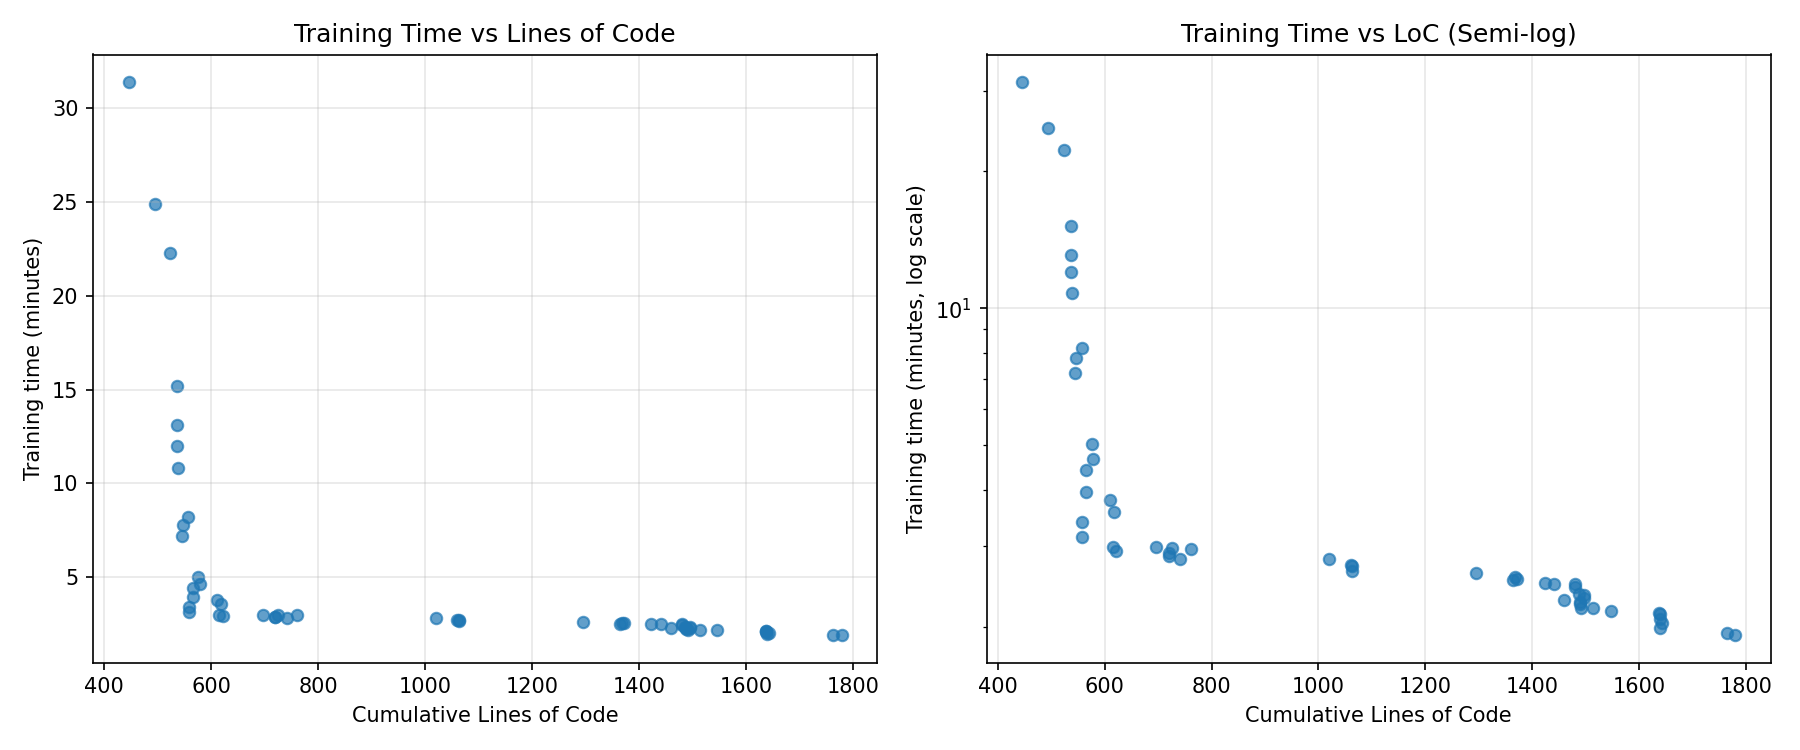
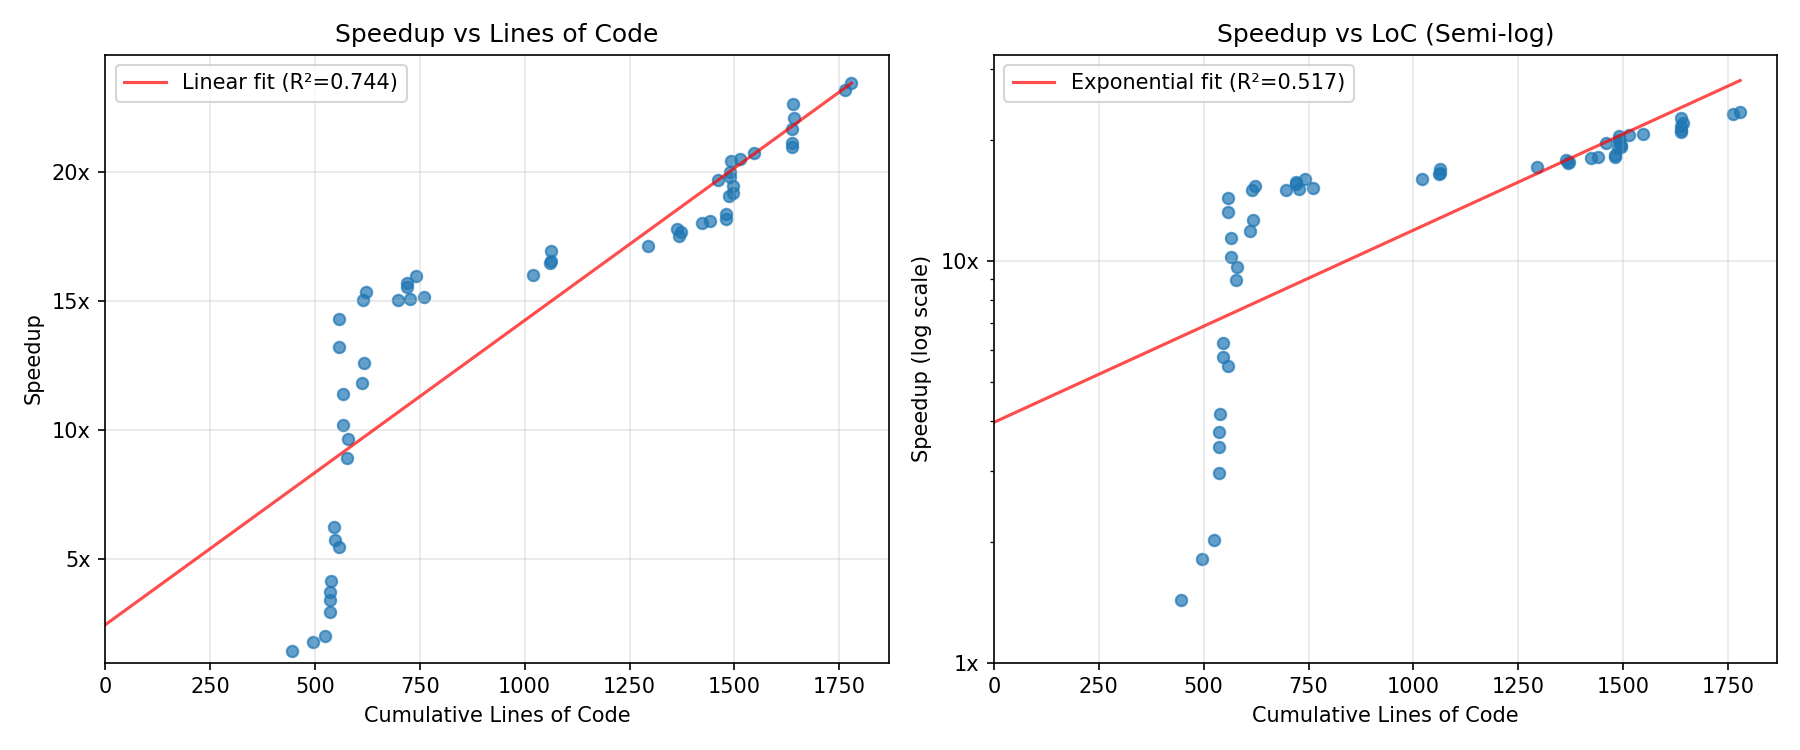
plot changes

diff --git a/src/plots.py b/src/plots.py
@@ -138,31 +138,60 @@ def plot_speed_over_time(improvements: list[dict], output_dir: Path, fit_results
 
 
 def plot_speed_vs_loc(improvements: list[dict], output_dir: Path):
-    """Plot speed vs lines of code."""
+    """Plot speedup vs lines of code."""
     # Filter records with valid data
     valid = [i for i in improvements if i["cumulative_loc"] is not None and i["record_time_minutes"] is not None]
 
     loc = np.array([i["cumulative_loc"] for i in valid])
     times = np.array([i["record_time_minutes"] for i in valid])
 
+    # Calculate speedup relative to 45min baseline
+    baseline_time = 45.0
+    speedup = baseline_time / times
+
     fig, axes = plt.subplots(1, 2, figsize=(12, 5))
 
     # Linear scale
     ax1 = axes[0]
-    ax1.scatter(loc, times, alpha=0.7, s=30)
+    ax1.scatter(loc, speedup, alpha=0.7, s=30)
     ax1.set_xlabel("Cumulative Lines of Code")
-    ax1.set_ylabel("Training time (minutes)")
-    ax1.set_title("Training Time vs Lines of Code")
+    ax1.set_ylabel("Speedup")
+    ax1.set_title("Speedup vs Lines of Code")
     ax1.grid(True, alpha=0.3)
 
-    # Semi-log scale
+    # Linear fit
+    slope1, intercept1, r_value1, _, _ = stats.linregress(loc, speedup)
+    loc_fit = np.linspace(0, loc.max(), 100)
+    ax1.plot(loc_fit, slope1 * loc_fit + intercept1, 'r-', alpha=0.7,
+             label=f'Linear fit (R²={r_value1**2:.3f})')
+    ax1.legend()
+
+    # Format y-axis with 'x' suffix
+    ax1.yaxis.set_major_formatter(plt.FuncFormatter(lambda x, _: f'{x:.0f}x'))
+    ax1.set_ylim(bottom=1)
+    ax1.set_xlim(left=0)
+
+    # Semi-log on Y (log speedup)
     ax2 = axes[1]
-    ax2.scatter(loc, times, alpha=0.7, s=30)
+    ax2.scatter(loc, speedup, alpha=0.7, s=30)
     ax2.set_yscale("log")
     ax2.set_xlabel("Cumulative Lines of Code")
-    ax2.set_ylabel("Training time (minutes, log scale)")
-    ax2.set_title("Training Time vs LoC (Semi-log)")
+    ax2.set_ylabel("Speedup (log scale)")
+    ax2.set_title("Speedup vs LoC (Semi-log)")
     ax2.grid(True, alpha=0.3)
+
+    # Log-linear fit (linear in log space)
+    log_speedup = np.log10(speedup)
+    slope2, intercept2, r_value2, _, _ = stats.linregress(loc, log_speedup)
+    log_fit = slope2 * loc_fit + intercept2
+    ax2.plot(loc_fit, 10**log_fit, 'r-', alpha=0.7,
+             label=f'Exponential fit (R²={r_value2**2:.3f})')
+    ax2.legend()
+
+    # Format y-axis with 'x' suffix
+    ax2.yaxis.set_major_formatter(plt.FuncFormatter(lambda x, _: f'{x:.0f}x'))
+    ax2.set_ylim(bottom=1)
+    ax2.set_xlim(left=0)
 
     plt.tight_layout()
     plt.savefig(output_dir / "speed_vs_loc.png", dpi=150)
@@ -172,7 +201,7 @@ def plot_speed_vs_loc(improvements: list[dict], output_dir: Path):
 
 
 def plot_speed_vs_stars(improvements: list[dict], output_dir: Path):
-    """Plot speed vs stars (if available)."""
+    """Plot speedup vs stars (if available)."""
     # Filter records with valid data
     valid = [i for i in improvements if i["stars"] is not None and i["record_time_minutes"] is not None]
 
@@ -183,24 +212,51 @@ def plot_speed_vs_stars(improvements: list[dict], output_dir: Path):
     stars = np.array([i["stars"] for i in valid])
     times = np.array([i["record_time_minutes"] for i in valid])
 
+    # Calculate speedup relative to 45min baseline
+    baseline_time = 45.0
+    speedup = baseline_time / times
+
     fig, axes = plt.subplots(1, 2, figsize=(12, 5))
 
     # Linear scale
     ax1 = axes[0]
-    ax1.scatter(stars, times, alpha=0.7, s=30)
+    ax1.scatter(stars, speedup, alpha=0.7, s=30)
     ax1.set_xlabel("Repository Stars")
-    ax1.set_ylabel("Training time (minutes)")
-    ax1.set_title("Training Time vs Stars")
+    ax1.set_ylabel("Speedup")
+    ax1.set_title("Speedup vs Stars")
     ax1.grid(True, alpha=0.3)
 
-    # Semi-log on Y
+    # Linear fit
+    slope1, intercept1, r_value1, _, _ = stats.linregress(stars, speedup)
+    stars_fit = np.linspace(stars.min(), stars.max(), 100)
+    ax1.plot(stars_fit, slope1 * stars_fit + intercept1, 'r-', alpha=0.7,
+             label=f'Linear fit (R²={r_value1**2:.3f})')
+    ax1.legend()
+
+    # Format y-axis with 'x' suffix
+    ax1.yaxis.set_major_formatter(plt.FuncFormatter(lambda x, _: f'{x:.0f}x'))
+    ax1.set_ylim(bottom=1)
+
+    # Semi-log on Y (log speedup)
     ax2 = axes[1]
-    ax2.scatter(stars, times, alpha=0.7, s=30)
+    ax2.scatter(stars, speedup, alpha=0.7, s=30)
     ax2.set_yscale("log")
     ax2.set_xlabel("Repository Stars")
-    ax2.set_ylabel("Training time (minutes, log scale)")
-    ax2.set_title("Training Time vs Stars (Semi-log)")
+    ax2.set_ylabel("Speedup (log scale)")
+    ax2.set_title("Speedup vs Stars (Semi-log)")
     ax2.grid(True, alpha=0.3)
+
+    # Log-linear fit (linear in log space)
+    log_speedup = np.log10(speedup)
+    slope2, intercept2, r_value2, _, _ = stats.linregress(stars, log_speedup)
+    log_fit = slope2 * stars_fit + intercept2
+    ax2.plot(stars_fit, 10**log_fit, 'r-', alpha=0.7,
+             label=f'Exponential fit (R²={r_value2**2:.3f})')
+    ax2.legend()
+
+    # Format y-axis with 'x' suffix
+    ax2.yaxis.set_major_formatter(plt.FuncFormatter(lambda x, _: f'{x:.0f}x'))
+    ax2.set_ylim(bottom=1)
 
     plt.tight_layout()
     plt.savefig(output_dir / "speed_vs_stars.png", dpi=150)
@@ -228,6 +284,161 @@ def plot_loc_over_time(improvements: list[dict], output_dir: Path):
     plt.close()
 
     print(f"Saved loc_over_time.png")
+
+
+def plot_combined_normalized(improvements: list[dict], output_dir: Path):
+    """Plot normalized speed, LoC, and stars on the same axes."""
+    from datetime import datetime
+    import matplotlib.dates as mdates
+
+    # Filter records with all data
+    valid = [i for i in improvements if
+             i["days_since_start"] is not None and
+             i["cumulative_loc"] is not None and
+             i["record_time_minutes"] is not None]
+
+    dates = [datetime.strptime(i["date"], "%Y-%m-%d") for i in valid]
+    record_nums = np.array([i["record_num"] for i in valid])
+    times = np.array([i["record_time_minutes"] for i in valid])
+    loc = np.array([i["cumulative_loc"] for i in valid])
+    stars = np.array([i["stars"] if i["stars"] is not None else 0 for i in valid])
+
+    # Calculate speedup (1x = original 45min baseline, higher = faster)
+    baseline_time = 45.0  # Original llm.c baseline
+    speedup = baseline_time / times  # e.g., 45/1.9 = ~23x
+
+    # Normalize to 0-1 range for plotting on shared axes
+    def normalize(arr):
+        return (arr - arr.min()) / (arr.max() - arr.min())
+
+    loc_norm = normalize(loc)
+
+    stars_for_norm = stars.copy()
+    if stars_for_norm.min() == stars_for_norm.max():
+        stars_norm = np.ones_like(stars_for_norm)
+    else:
+        stars_norm = normalize(stars_for_norm)
+
+    # Normalize speedup linearly (starting from min, not 0)
+    speedup_norm = normalize(speedup)
+
+    fig, ax1 = plt.subplots(figsize=(14, 7))
+
+    # Plot speedup on left axis (primary)
+    color_speed = '#2563eb'  # Blue
+    color_loc = '#dc2626'    # Red
+    color_stars = '#16a34a'  # Green
+
+    line1, = ax1.plot(dates, speedup_norm, 'o-', color=color_speed,
+                      label='Speedup', linewidth=2, markersize=4, alpha=0.8)
+    ax1.set_xlabel('Date', fontsize=11)
+    ax1.set_ylabel('Speedup', color=color_speed, fontsize=11)
+    ax1.tick_params(axis='y', labelcolor=color_speed)
+
+    # Format x-axis dates
+    ax1.xaxis.set_major_formatter(mdates.DateFormatter('%b %Y'))
+    ax1.xaxis.set_major_locator(mdates.MonthLocator(interval=3))
+    plt.setp(ax1.xaxis.get_majorticklabels(), rotation=45, ha='right')
+
+    # Set speedup y-axis ticks to show actual speedup values
+    speedup_ticks = np.linspace(speedup.min(), speedup.max(), 6)
+    speedup_ticks_norm = normalize(speedup_ticks)
+    ax1.set_yticks(speedup_ticks_norm)
+    ax1.set_yticklabels([f'{s:.0f}x' for s in speedup_ticks])
+    ax1.set_ylim(-0.05, 1.05)
+
+    # Plot LoC on right axis
+    ax2 = ax1.twinx()
+    line2, = ax2.plot(dates, loc_norm, 's--', color=color_loc,
+                      label='Lines of Code', linewidth=2, markersize=4, alpha=0.8)
+    ax2.set_ylabel('Lines of Code', color=color_loc, fontsize=11)
+    ax2.tick_params(axis='y', labelcolor=color_loc)
+    ax2.set_ylim(-0.05, 1.05)
+
+    # Set LoC ticks to show actual values
+    loc_tick_values = np.linspace(loc.min(), loc.max(), 5)
+    loc_tick_norm = normalize(loc_tick_values)
+    ax2.set_yticks(loc_tick_norm)
+    ax2.set_yticklabels([f'{int(v)}' for v in loc_tick_values])
+
+    # Plot stars as a third line (no separate axis, just visual)
+    line3, = ax1.plot(dates, stars_norm, '^:', color=color_stars,
+                      label='Stars', linewidth=2, markersize=4, alpha=0.8)
+
+    # Create secondary x-axis at top for record numbers
+    ax3 = ax1.twiny()
+    ax3.set_xlim(ax1.get_xlim())
+
+    # Create mapping from dates to record numbers for tick placement
+    # Place ticks every 5 records
+    tick_records = list(range(5, int(record_nums.max()) + 1, 5))
+    tick_dates = []
+    tick_labels = []
+    for rec in tick_records:
+        # Find the date for this record number
+        for i, rn in enumerate(record_nums):
+            if rn == rec:
+                tick_dates.append(mdates.date2num(dates[i]))
+                tick_labels.append(str(rec))
+                break
+
+    ax3.set_xticks(tick_dates)
+    ax3.set_xticklabels(tick_labels)
+    ax3.set_xlabel('Record #', fontsize=11, loc='left')
+
+    # Add text annotation for the starting point (bottom left)
+    first_idx = 0
+    first_speedup = speedup[first_idx]
+    first_loc = loc[first_idx]
+    first_stars = stars[first_idx]
+    first_time = times[first_idx]
+
+    original_text = (f'Original:\n'
+                    f'  {first_speedup:.1f}x speedup\n'
+                    f'  {first_time:.2f} min\n'
+                    f'  {int(first_loc)} LoC\n'
+                    f'  {int(first_stars)} stars')
+
+    ax1.annotate(original_text,
+                xy=(dates[first_idx], speedup_norm[first_idx]),
+                xytext=(15, 40), textcoords='offset points',
+                fontsize=9, family='monospace',
+                bbox=dict(boxstyle='round,pad=0.5', facecolor='white', edgecolor='gray', alpha=0.9),
+                arrowprops=dict(arrowstyle='->', connectionstyle='arc3,rad=-0.2', color='gray'))
+
+    # Add text annotation for the final point (top right)
+    final_idx = -1
+    final_speedup = speedup[final_idx]
+    final_loc = loc[final_idx]
+    final_stars = stars[final_idx]
+    final_time = times[final_idx]
+
+    final_text = (f'Final Record:\n'
+                 f'  {final_speedup:.1f}x speedup\n'
+                 f'  {final_time:.2f} min\n'
+                 f'  {int(final_loc)} LoC\n'
+                 f'  {int(final_stars)} stars')
+
+    ax1.annotate(final_text,
+                xy=(dates[final_idx], speedup_norm[final_idx]),
+                xytext=(-130, -30), textcoords='offset points',
+                fontsize=9, family='monospace',
+                bbox=dict(boxstyle='round,pad=0.5', facecolor='white', edgecolor='gray', alpha=0.9),
+                arrowprops=dict(arrowstyle='->', connectionstyle='arc3,rad=0.2', color='gray'))
+
+    # Legend
+    lines = [line1, line2, line3]
+    labels = [l.get_label() for l in lines]
+    ax1.legend(lines, labels, loc='upper left', fontsize=10)
+
+    ax1.set_title('Diminishing Returns in the NanoGPT Speedrun', fontsize=13, fontweight='bold', pad=10)
+    ax1.grid(True, alpha=0.3)
+
+    plt.tight_layout()
+    plt.savefig(output_dir / "combined_normalized.png", dpi=150)
+    plt.close()
+
+    print("Saved combined_normalized.png")
 
 
 def main():
@@ -289,6 +500,7 @@ def main():
     plot_speed_vs_loc(improvements, plots_dir)
     plot_speed_vs_stars(improvements, plots_dir)
     plot_loc_over_time(improvements, plots_dir)
+    plot_combined_normalized(improvements, plots_dir)
 
     print(f"\nAll plots saved to {plots_dir}/")
 

diff --git a/README.md b/README.md
@@ -4,8 +4,8 @@ Measure the amount of algorithmic improvement in the nanogpt speedrun (https://g
 analysis by tkwa
 
 - Speed over time is super jagged
-- Time vs LoC is 
-
+- Time vs LoC shows an elbow pattern. At first improvements were easy to make without increasing LoC much, but then improvements became small and LoC required became larger.
+- Speed vs stars is smoother and shows diminishing returns
 
 
 
